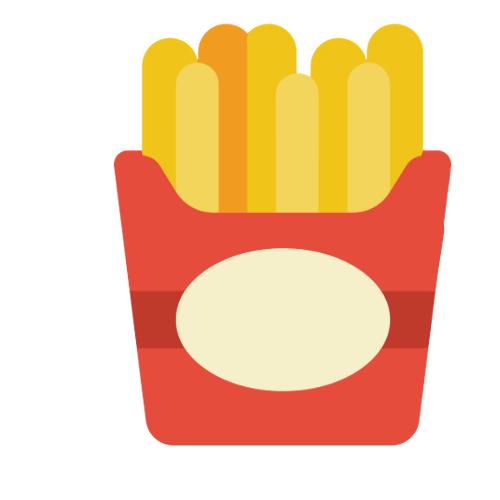
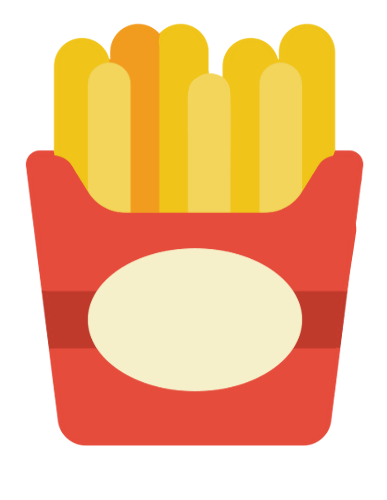
CHORE: modify img size

diff --git a/css/beer.css b/css/beer.css
@@ -155,7 +155,6 @@ section > img {
 
 .recommend-item {
   width: 30%;
-  height: 60%;
   display: flex;
   flex-direction: column;
   justify-content: space-evenly;
@@ -165,8 +164,7 @@ section > img {
 
 .recommend-icon,
 .recommend-icon-color {
-  width: 100%;
-  height: 90%;
+  height: 55vh;
 }
 
 .recommend-icon-color {
